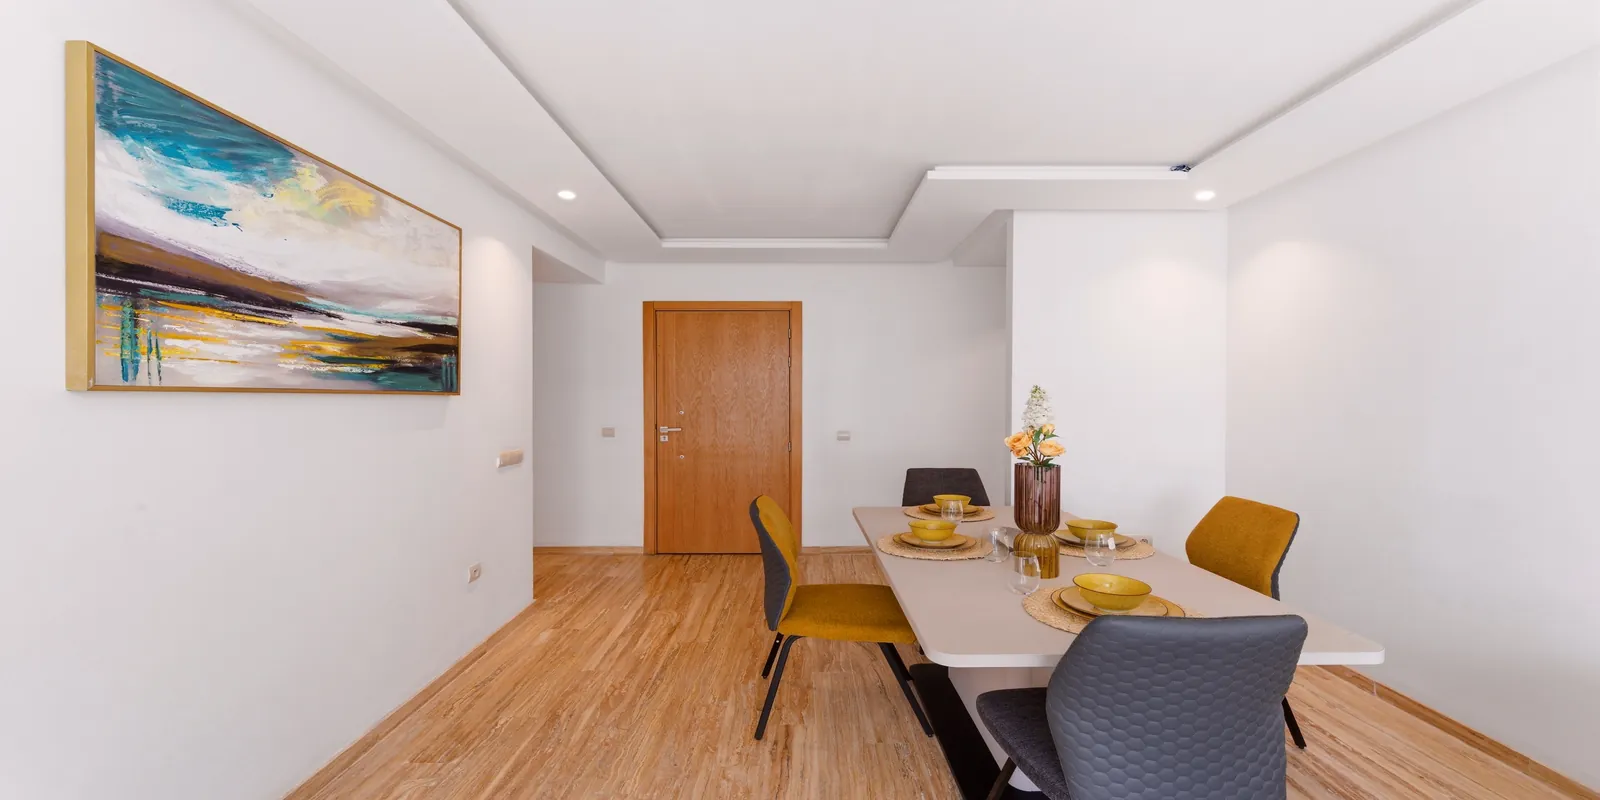
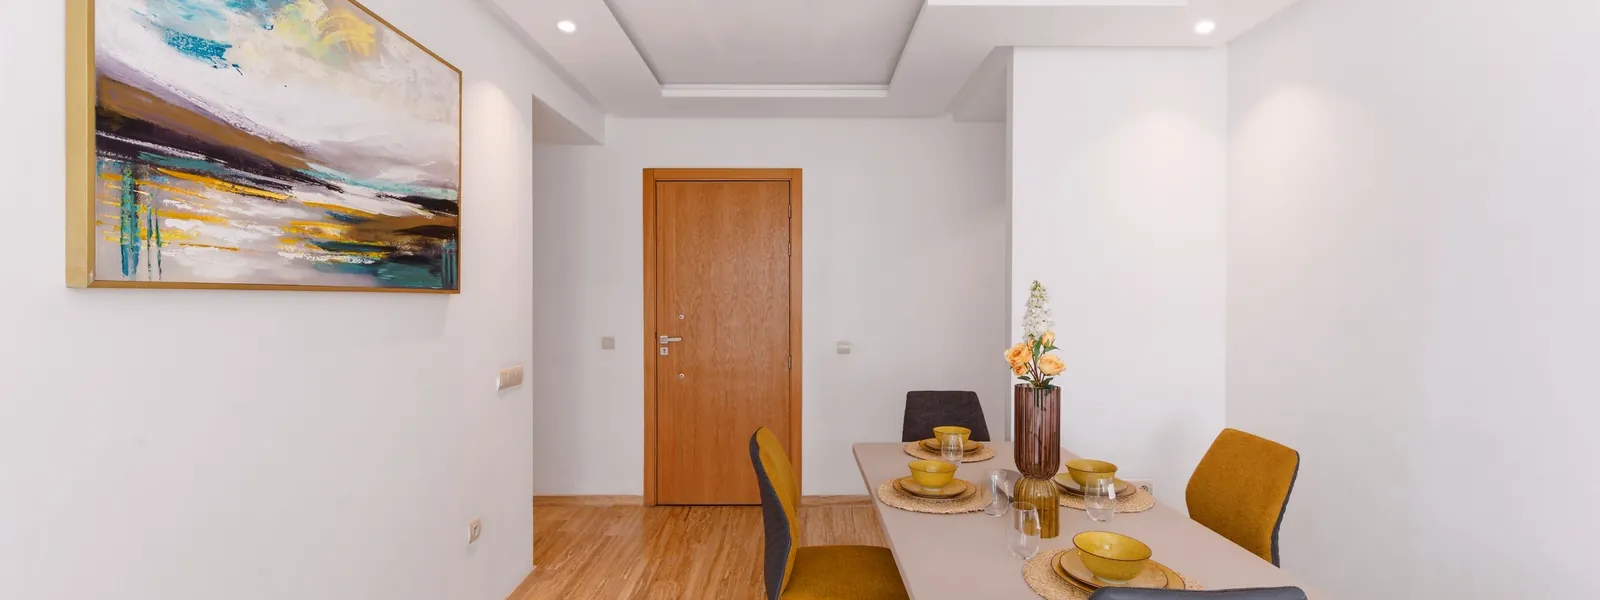
Recrop wide gallery tile to match single-tile height
🤖 Generated with Codebuff

diff --git a/src/styles/theme.css b/src/styles/theme.css
@@ -904,7 +904,7 @@ body.solid-nav .header-top__inner {
 
 .gallery-item--wide {
   grid-column: span 2;
-  aspect-ratio: 2 / 1;
+  aspect-ratio: 8 / 3;
 }
 
 @media (max-width: 899px) {
